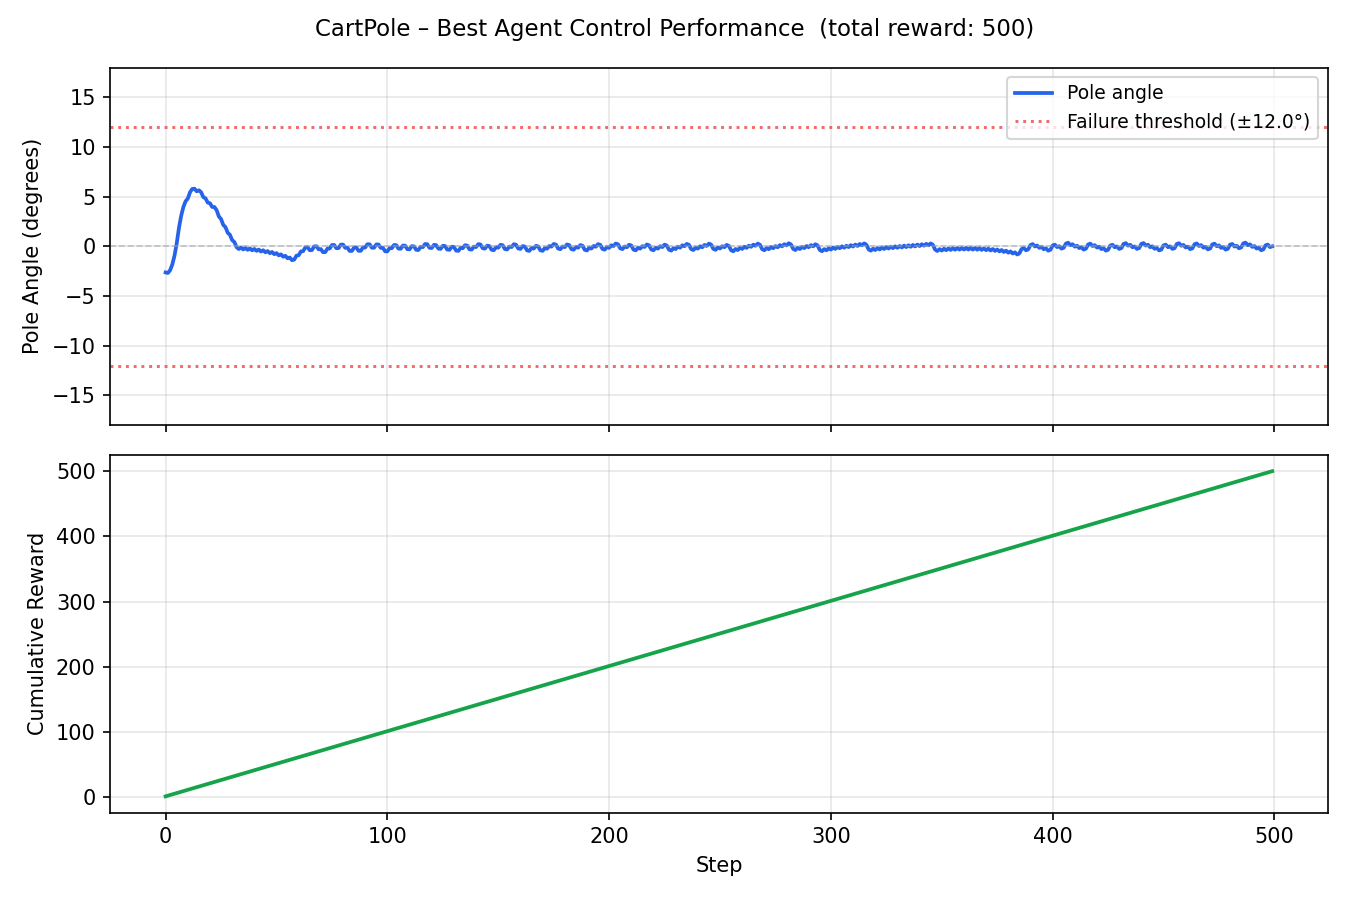
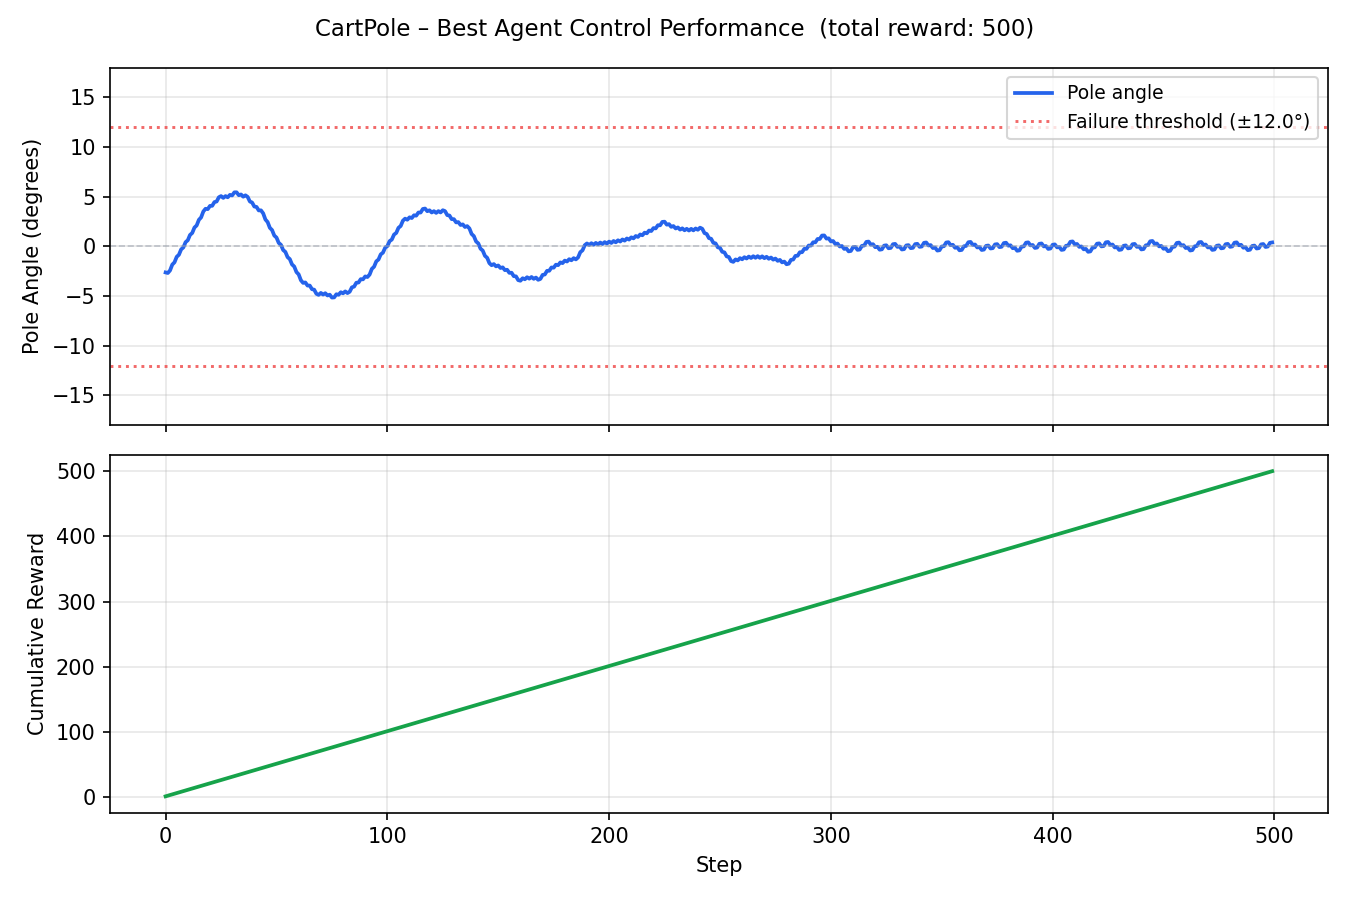
Feedback

Changed region(s): [[0.1244, 0.2178, 0.9333, 0.3422]]

diff --git a/src/task2_cartpole/visualization.py b/src/task2_cartpole/visualization.py
@@ -44,6 +44,53 @@ def plot_reward_history(history_best, history_avg, save_path, stagnation_events=
     print(f"  Saved: {save_path}")
 
 
+def plot_initial_cartpole(pole_angles, cart_positions, save_path):
+    """
+    Visualise the initial state of a random (untrained) CartPole agent.
+
+    Shows how the pole falls without any learned policy: pole angle and
+    cart position over the episode steps, with failure thresholds.
+
+    Parameters
+    ----------
+    pole_angles    : list[float]  – pole angle (rad) at each step
+    cart_positions : list[float]  – cart position at each step
+    save_path      : str
+    """
+    steps      = np.arange(len(pole_angles))
+    angles_deg = np.degrees(pole_angles)
+    threshold  = 12.0
+
+    fig, (ax1, ax2) = plt.subplots(2, 1, figsize=(9, 6), sharex=True)
+
+    ax1.plot(steps, angles_deg, linewidth=1.8, color="#dc2626", label="Pole angle")
+    ax1.axhline(y= threshold, color="#9ca3af", linestyle=":", linewidth=1.2,
+                alpha=0.8, label=f"Failure threshold (±{threshold}°)")
+    ax1.axhline(y=-threshold, color="#9ca3af", linestyle=":", linewidth=1.2, alpha=0.8)
+    ax1.axhline(y=0, color="#9ca3af", linestyle="--", linewidth=0.8, alpha=0.5)
+    ax1.set_ylabel("Pole Angle (degrees)")
+    ax1.set_ylim(-threshold * 2.5, threshold * 2.5)
+    ax1.legend(fontsize=9)
+    ax1.grid(True, alpha=0.3)
+
+    ax2.plot(steps, cart_positions, linewidth=1.8, color="#f59e0b", label="Cart position")
+    ax2.axhline(y= 2.4, color="#9ca3af", linestyle=":", linewidth=1.2,
+                alpha=0.8, label="Position limit (±2.4)")
+    ax2.axhline(y=-2.4, color="#9ca3af", linestyle=":", linewidth=1.2, alpha=0.8)
+    ax2.set_xlabel("Step")
+    ax2.set_ylabel("Cart Position")
+    ax2.legend(fontsize=9)
+    ax2.grid(True, alpha=0.3)
+
+    total = len(pole_angles)
+    fig.suptitle(f"CartPole – Initial State: Random Policy  (survived {total} steps)",
+                 fontsize=11)
+    fig.tight_layout()
+    fig.savefig(save_path, dpi=150)
+    plt.close(fig)
+    print(f"  Saved: {save_path}")
+
+
 def plot_control_performance(pole_angles, save_path):
     """
     Visualise the best agent's control behaviour during one episode.

diff --git a/src/task2_cartpole/train_ga.py b/src/task2_cartpole/train_ga.py
@@ -7,7 +7,7 @@ from src.common.selection import tournament_selection, roulette_selection
 from src.common.crossover import uniform_crossover, arithmetic_crossover
 from src.common.mutation import gaussian_mutation
 from src.task2_cartpole.cartpole_policy import LinearPolicy, evaluate_policy_with_stats
-from src.task2_cartpole.visualization import plot_reward_history, plot_control_performance
+from src.task2_cartpole.visualization import plot_reward_history, plot_control_performance, plot_initial_cartpole
 
 CONFIG = {
     "n_weights": 5,
@@ -100,6 +100,10 @@ def run_cartpole(config=None):
     print(f"\n=== CartPole GA | pop={cfg['pop_size']} | gen={cfg['n_generations']} | "
           f"sigma={cfg['sigma']} | episodes={cfg['n_eval_episodes']} ===")
 
+    # --- initial state visualisation (before GA) ---
+    init_path = os.path.join(cfg["results_dir"], "initial_state.png")
+    _save_initial_state(cfg["seed"], init_path)
+
     ga = GeneticAlgorithm(
         config=cfg,
         init_fn=init_fn,
@@ -127,6 +131,26 @@ def run_cartpole(config=None):
     _save_control_performance(result["best"], ctrl_path)
 
     return result
+
+
+def _save_initial_state(seed, save_path):
+    """Run one episode with a random policy and save the initial-state plot."""
+    rng = np.random.default_rng(seed)
+    random_weights = rng.standard_normal(5)
+    policy = LinearPolicy(random_weights)
+    env = gymnasium.make("CartPole-v1")
+    obs, _ = env.reset(seed=seed)
+    pole_angles, cart_positions = [], []
+    done = False
+    while not done:
+        pole_angles.append(float(obs[2]))
+        cart_positions.append(float(obs[0]))
+        action = policy.act(obs)
+        obs, _, term, trunc, _ = env.step(action)
+        done = term or trunc
+    env.close()
+    print(f"Random policy survived {len(pole_angles)} steps")
+    plot_initial_cartpole(pole_angles, cart_positions, save_path)
 
 
 def _save_control_performance(weights, save_path):

diff --git a/src/task1_tsp/visualization.py b/src/task1_tsp/visualization.py
@@ -58,19 +58,19 @@ def plot_fitness_history(history_best, history_avg, save_path,
     print(f"  Saved: {save_path}")
 
 
-def plot_best_route(cities, permutation, total_distance, save_path):
+def plot_best_route(cities, permutation, total_distance, save_path, title=None):
     """
-    Visualize the best TSP route found and save to file.
+    Visualize a TSP route and save to file.
 
     Parameters
     ----------
     cities         : np.ndarray, shape (n, 2)
-    permutation    : np.ndarray, shape (n,)  – city indices in visit order
+    permutation    : np.ndarray, shape (n,)
     total_distance : float
     save_path      : str
+    title          : str | None  – custom plot title; defaults to "TSP – Best Route"
     """
     ordered = cities[permutation]
-    # close the loop for drawing
     loop = np.vstack([ordered, ordered[0]])
 
     fig, ax = plt.subplots(figsize=(7, 7))
@@ -78,16 +78,15 @@ def plot_best_route(cities, permutation, total_distance, save_path):
     ax.plot(loop[:, 0], loop[:, 1], "-o", color="#2563eb",
             markersize=8, linewidth=1.5, zorder=2)
 
-    # label cities with their index
     for idx, (x, y) in enumerate(cities):
         ax.annotate(str(permutation.tolist().index(idx)),
                     xy=(x, y), xytext=(4, 4), textcoords="offset points",
                     fontsize=7, color="#374151")
 
-    # highlight the start city
     ax.scatter(*cities[permutation[0]], color="#ef4444", s=120, zorder=3, label="Start")
 
-    ax.set_title(f"TSP – Best Route  (distance = {total_distance:.4f})")
+    heading = title or "TSP – Best Route"
+    ax.set_title(f"{heading}  (distance = {total_distance:.4f})")
     ax.set_xlabel("x")
     ax.set_ylabel("y")
     ax.legend()

diff --git a/src/task1_tsp/tsp_ga.py b/src/task1_tsp/tsp_ga.py
@@ -129,6 +129,15 @@ def run_tsp(config=None):
 
     cities = generate_cities(cfg["n_cities"], seed=cfg["seed"])
 
+    # --- initial state visualisation (before GA) ---
+    rng_init = np.random.default_rng(cfg["seed"])
+    initial_perm = rng_init.permutation(cfg["n_cities"])
+    initial_dist = route_distance(cities, initial_perm)
+    initial_route_path = os.path.join(cfg["results_dir"], "initial_route.png")
+    plot_best_route(cities, initial_perm, initial_dist, initial_route_path,
+                    title="TSP – Initial Random Route")
+    print(f"Initial random route distance: {initial_dist:.4f}")
+
     init_fn = lambda c: init_population(c["pop_size"], c["n_cities"], rng)
     fitness_fn = make_fitness_fn(cities, cfg["epsilon"], cfg.get("smoothness_weight", 0.0))
     crossover_fn = _make_crossover(cfg["crossover"])

diff --git a/README.md b/README.md
@@ -288,5 +288,27 @@ After training, `train_ga.py` automatically runs one episode with the best weigh
 
 This visualises how stable and precise the learned policy is — not just the total reward, but the moment-by-moment control quality.
 
-**Feedback**
-- Provide the graphical representation of both tasks separately at the initial stage, and further work on the necessary improvements and refinements.
+---
+
+## Improvements (feedback 27.05.2026)
+
+The following changes were made in response to reviewer feedback requesting graphical representation of both tasks at the initial (pre-training) stage, so that the improvement brought by the GA is clearly visible by comparison.
+
+### Initial state visualisation — TSP
+
+At the start of `run_tsp()`, before the GA runs, a single random route is sampled from the same city layout and saved as `results/task1/initial_route.png`. The plot uses the same visual style as the post-training best-route plot so the two can be directly compared side by side.
+
+The initial random route typically has distance **5–8** (zigzagging, no structure). After 300 generations the GA reduces this to **~3.4**, demonstrating the improvement clearly.
+
+New output file: `results/task1/initial_route.png`
+
+### Initial state visualisation — CartPole
+
+At the start of `run_cartpole()`, before the GA runs, one episode is played using a **random policy** (random weight vector). The episode is recorded and saved as `results/task2/initial_state.png`. The plot has two panels:
+
+- **Top**: pole angle in degrees — shows the pole falling quickly past the ±12° threshold
+- **Bottom**: cart position — shows uncontrolled drift toward the ±2.4 position limit
+
+A random policy typically survives only **5–20 steps**. The trained policy (saved as `control_performance.png`) survives all **500 steps**, making the before/after comparison immediate and clear.
+
+New output file: `results/task2/initial_state.png`
